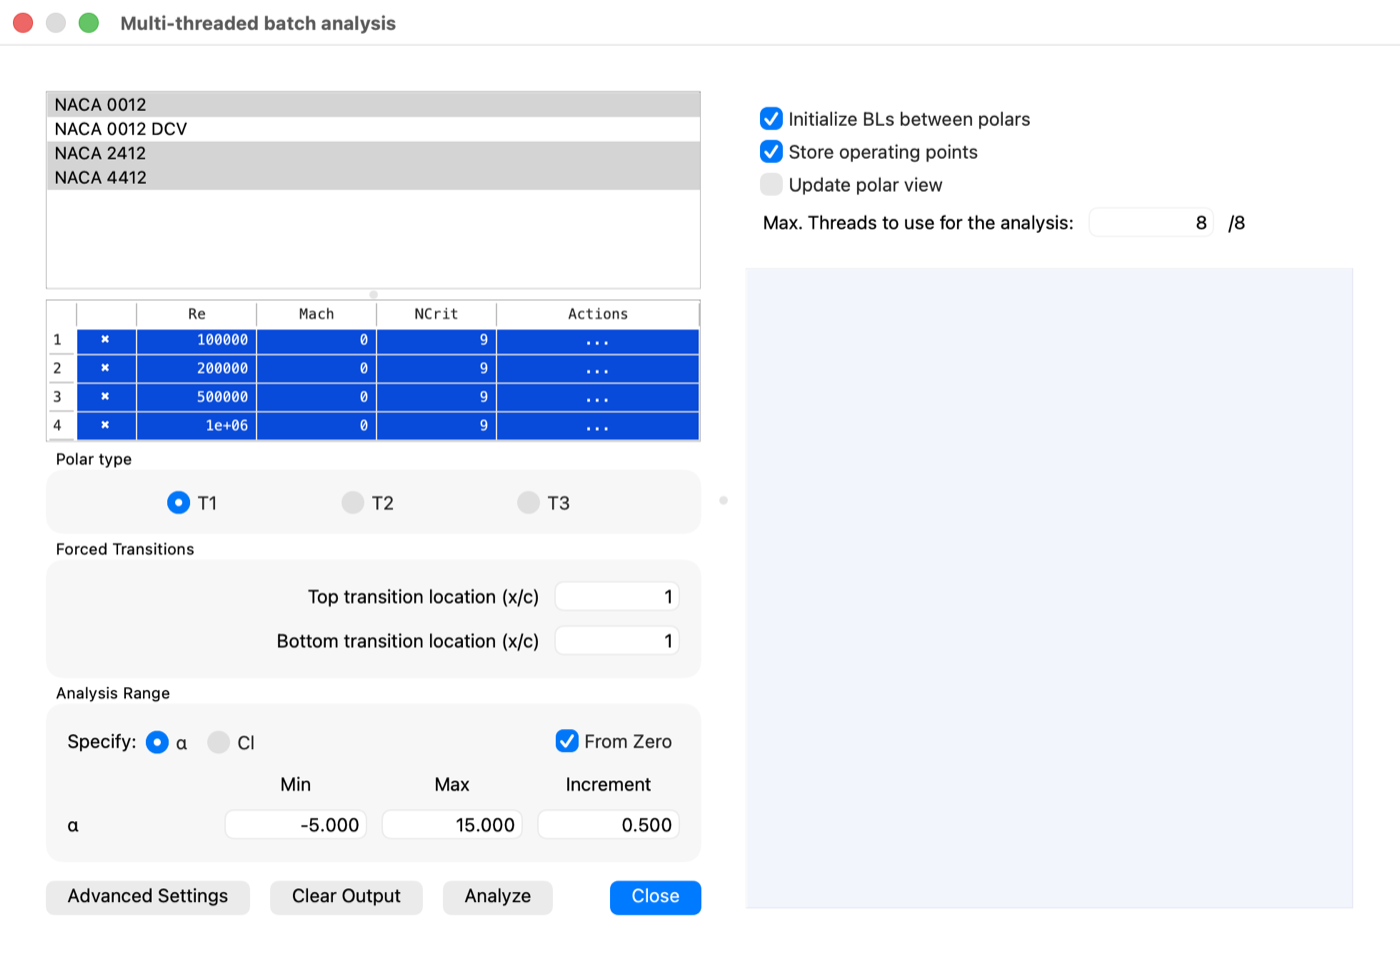
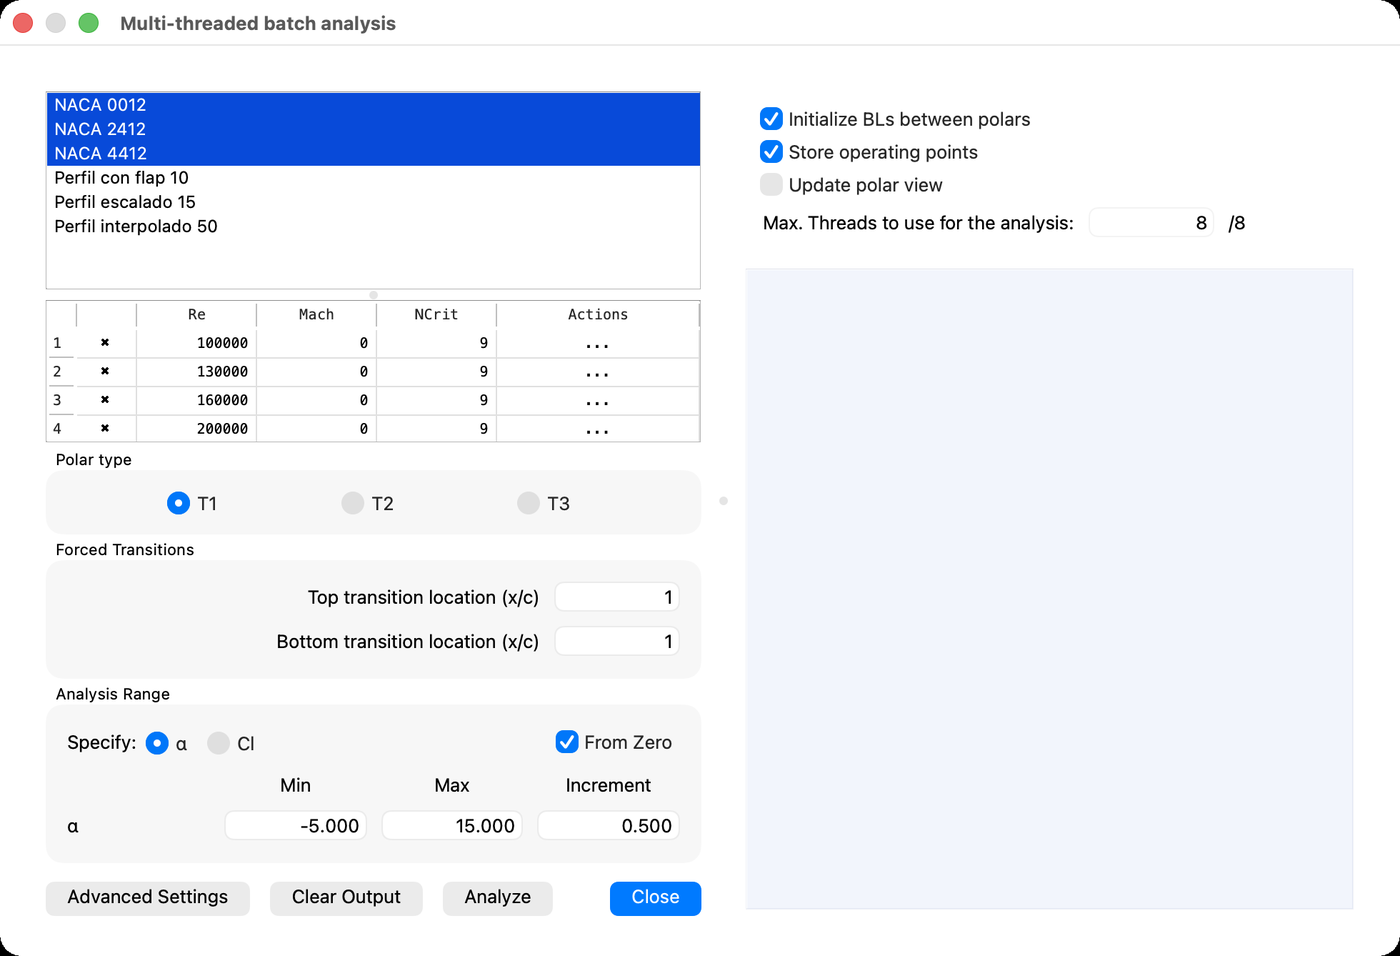
Tutorial 1.2 de XFLR5: capturas del lote y aviso del diálogo de nombre
Figuras 7, 8 y 9 rehechas con una corrida limpia. La anterior tenía filas de
Reynolds repetidas: lanzaba 36 corridas pero sólo daba 24 polares distintas,
y el pie de la Figura 9 («la leyenda lista las treinta y seis») no era cierto.
La nueva usa doce Reynolds distintos sobre los tres NACA; la leyenda muestra
las 36 polares. Se ajustan el pie y el párrafo de la Figura 7 a la nueva lista.

Aviso nuevo en los Pasos 1, 2 y 3, verificado en XFLR5 v6.62: al crear un
perfil escalado o con flap, el diálogo de nombre propone el del perfil actual,
y aceptarlo tal cual lo sustituye sin aviso y borra sus polares; al interpolar,
propone el del perfil del desplegable de arriba. Resumen en inglés y alemán.

diff --git a/tutorials/xflr5/lotes-y-geometria.html b/tutorials/xflr5/lotes-y-geometria.html
@@ -74,7 +74,7 @@
     <section id="scale">
       <p class="section-label">Step 1</p>
       <h2>Scaling camber and thickness</h2>
-      <p>The <em>Foil Geometry</em> dialogue exposes the four numbers that <em>are</em> the four digits of a NACA designation, each on a continuous slider. That turns it into a generator of parametric families. After scaling, normalise and refine again: the contour has been rebuilt.</p>
+      <p>The <em>Foil Geometry</em> dialogue exposes the four numbers that <em>are</em> the four digits of a NACA designation, each on a continuous slider. That turns it into a generator of parametric families. After scaling, normalise and refine again: the contour has been rebuilt. On accepting, the name dialogue proposes the original airfoil's name; accepting it unchanged silently replaces the original and deletes its polars, so type a new name. The same dialogue follows a flap (current airfoil) and an interpolation (the airfoil in the upper selector).</p>
     </section>
     <section id="interpolate">
       <p class="section-label">Step 2</p>
@@ -224,6 +224,9 @@
 <p>Los cuatro campos que muestra —valor y posición de la curvatura, valor y posición del espesor— <strong>son exactamente los cuatro dígitos de la designación NACA</strong>. El 2412 declara curvatura del 2 % al 40 % de la cuerda y espesor del 12 %, y el diálogo lo confirma con 2.00 % al 39.94 % y 12.00 % al 29.53 %.</p>
 <p>La utilidad no es leerlos sino moverlos. Los deslizadores permiten variar cada uno de forma continua, y ahí está el valor de la herramienta: <strong>generar una familia paramétrica</strong> —el mismo perfil con espesores del 10, 12, 15 y 18 %— para ver qué cuesta cada milímetro de larguero en arrastre y en \(c_{l,\max}\).</p>
 <div class="callout warning">
+  <p><strong>El nombre que propone el programa es el del perfil original.</strong> Al hacer clic en <code>OK</code> se abre un diálogo que pide el nombre del perfil nuevo y ya trae escrito el del perfil actual —aquí, <code>NACA 2412</code>—. Si se acepta tal cual, <strong>el original se sustituye sin aviso</strong>: con su nombre queda la geometría escalada, y sus polares se borran. Hay que escribir un nombre distinto antes de aceptar.</p>
+</div>
+<div class="callout warning">
   <p><strong>Después de escalar, hay que volver a preparar la geometría.</strong> El escalado reconstruye el contorno punto a punto, de modo que la normalización y el panelado del Tutorial 1.1 dejan de estar garantizados. Conviene pasar otra vez por <code>Normalize the Foil</code> y <code>Refine Globally</code> antes de analizar, o los perfiles de la familia no serán comparables entre sí, que es justo lo que se buscaba.</p>
 </div>
     </section>
@@ -236,6 +239,7 @@
   <figcaption><b class="fig-num">Figura 4.</b> <b class="fig-title">Interpolación entre dos perfiles.</b> Al 50 % entre el NACA 0012 y el NACA 4412 el resultado es curvatura del 2.00 % al 39.7 % y espesor del 11.99 % al 29.7 %: el NACA 2412. La familia de cuatro dígitos define la curvatura de forma lineal, y la interpolación lo reproduce.</figcaption>
 </figure>
 <p>La figura muestra una comprobación que conviene hacer la primera vez: interpolar al 50 % entre el NACA 0012 y el NACA 4412 devuelve curvatura del 2.00 % al 39.7 % y espesor del 11.99 % al 29.7 %. Es decir, <strong>reproduce el NACA 2412</strong>, que es lo que la familia de cuatro dígitos predice, porque en ella la curvatura entra de forma lineal.</p>
+<p>Al aceptar aparece el mismo diálogo de nombre del Paso 1, pero aquí propone el del <strong>perfil del desplegable de arriba</strong> —el NACA 0012 de la figura—, aunque no sea el perfil actual. Si no se cambia, ese perfil queda sustituido por el interpolado.</p>
 <div class="callout">
   <p><strong>Para qué sirve de verdad.</strong> Un ala con perfil distinto en la raíz y en la punta necesita perfiles intermedios, y XFLR5 los interpola internamente al mallar. Generarlos de forma explícita permite <em>verlos</em> y analizarlos por separado antes de montarlos, en lugar de confiar en lo que ocurre dentro del mallador. Es la herramienta que el Tutorial 2.2 usará para las alas de perfil variable.</p>
 </div>
@@ -256,7 +260,7 @@
   <img src="imagenes/t12-04_flap_perfil.png" alt="Perfil NACA 2412 con el flap de borde de salida deflectado diez grados" loading="lazy">
   <figcaption><b class="fig-num">Figura 6.</b> <b class="fig-title">El perfil con el flap deflectado.</b> Aplicada la deflexión, el recuadro inferior incorpora <code>Flap Angle</code>, <code>XHinge</code> e <code>YHinge</code> junto al resto de la geometría. A partir de ese momento es un perfil distinto, con su propia polar y su propio ángulo de sustentación nula.</figcaption>
 </figure>
-<p>Aceptada la deflexión, el recuadro de datos del perfil incorpora tres líneas nuevas —<code>Flap Angle</code>, <code>XHinge</code> e <code>YHinge</code>— que quedan asociadas a la geometría.</p>
+<p>Aceptada la deflexión, el recuadro de datos del perfil incorpora tres líneas nuevas —<code>Flap Angle</code>, <code>XHinge</code> e <code>YHinge</code>— que quedan asociadas a la geometría. Antes aparece el diálogo de nombre del Paso 1, con el nombre del perfil actual: si se acepta tal cual, el perfil sin flap desaparece junto con sus polares. Conviene que el nombre nuevo lleve la deflexión.</p>
 <div class="callout warning">
   <p><strong>Un perfil con flap deflectado es un perfil distinto.</strong> No es el mismo perfil «en otra condición»: tiene su propia geometría, su propia polar y su propio \(\alpha_{L=0}\). XFoil <strong>no interpola entre deflexiones</strong>, de modo que estudiar un elevador que se mueve entre \(-15^\circ\) y \(+15^\circ\) obliga a generar un perfil por cada deflexión que se quiera resolver, y a analizarlos todos. Ahí es donde el análisis por lotes deja de ser una comodidad y pasa a ser la única forma razonable de hacerlo.</p>
 </div>
@@ -268,9 +272,9 @@
 <p>Menú <code>Analysis ▸ Batch Analysis</code>. El diálogo se titula <em>Multi-threaded batch analysis</em> y concentra, en una sola pantalla, todo lo que en el Tutorial 1.1 se definía perfil a perfil.</p>
 <figure class="diagram">
   <img src="imagenes/t12-06_batch.png" alt="Diálogo de análisis por lotes configurado con tres perfiles y varios números de Reynolds" loading="lazy">
-  <figcaption><b class="fig-num">Figura 7.</b> <b class="fig-title">El diálogo de análisis por lotes.</b> Arriba a la izquierda, la lista de perfiles con selección múltiple: están marcados los tres NACA limpios y queda fuera el cuarto. Debajo, la tabla de números de Reynolds —que admite más filas de las que muestra—, el tipo de polar, la transición forzada y el rango de ángulos. A la derecha, las opciones que deciden el tiempo de corrida y el número de hilos.</figcaption>
+  <figcaption><b class="fig-num">Figura 7.</b> <b class="fig-title">El diálogo de análisis por lotes.</b> Arriba a la izquierda, la lista de perfiles con selección múltiple: están marcados los tres NACA de la familia y quedan fuera los tres perfiles creados en los pasos anteriores. Debajo, la tabla de números de Reynolds —que admite más filas de las que muestra—, el tipo de polar, la transición forzada y el rango de ángulos. A la derecha, las opciones que deciden el tiempo de corrida y el número de hilos.</figcaption>
 </figure>
-<p>Se lee por zonas. Arriba a la izquierda, la <strong>lista de perfiles</strong>, con selección múltiple: en la figura están marcados los tres NACA de la familia y queda fuera un cuarto perfil que no interesa comparar. Debajo, la <strong>tabla de números de Reynolds</strong>, con su Mach y su \(N_{\mathrm{crit}}\) por fila —la tabla admite más filas de las que muestra a primera vista, y conviene desplazarla antes de suponer cuántas hay—. Después, el tipo de polar, la transición forzada y el rango de ángulos, con el mismo significado que en el Tutorial 1.1.</p>
+<p>Se lee por zonas. Arriba a la izquierda, la <strong>lista de perfiles</strong>, con selección múltiple: en la figura están marcados los tres NACA de la familia y quedan fuera los perfiles escalado, interpolado y con flap de los pasos anteriores, que aquí no interesa comparar. Debajo, la <strong>tabla de números de Reynolds</strong>, con su Mach y su \(N_{\mathrm{crit}}\) por fila —la tabla admite más filas de las que muestra a primera vista, y conviene desplazarla antes de suponer cuántas hay—. Después, el tipo de polar, la transición forzada y el rango de ángulos, con el mismo significado que en el Tutorial 1.1.</p>
 <h3>Las opciones de la derecha, que son las que deciden el tiempo</h3>
 <div class="table-wrap">
   <table>
@@ -434,7 +438,7 @@
     <section id="scale-de">
       <p class="section-label">Schritt 1</p>
       <h2>Wölbung und Dicke skalieren</h2>
-      <p>Der Dialog <em>Foil Geometry</em> zeigt die vier Größen, die den vier Ziffern einer NACA-Bezeichnung entsprechen, jede an einem stufenlosen Regler. Damit wird er zum Erzeuger parametrischer Familien. Nach dem Skalieren erneut normieren und verfeinern: die Kontur wurde neu aufgebaut.</p>
+      <p>Der Dialog <em>Foil Geometry</em> zeigt die vier Größen, die den vier Ziffern einer NACA-Bezeichnung entsprechen, jede an einem stufenlosen Regler. Damit wird er zum Erzeuger parametrischer Familien. Nach dem Skalieren erneut normieren und verfeinern: die Kontur wurde neu aufgebaut. Beim Bestätigen schlägt der Namensdialog den Namen des Originalprofils vor; wer ihn unverändert übernimmt, ersetzt das Original ohne Warnung und löscht seine Polaren. Derselbe Dialog folgt auf eine Klappe (aktuelles Profil) und eine Interpolation (das Profil in der oberen Auswahl).</p>
     </section>
     <section id="interpolate-de">
       <p class="section-label">Schritt 2</p>
